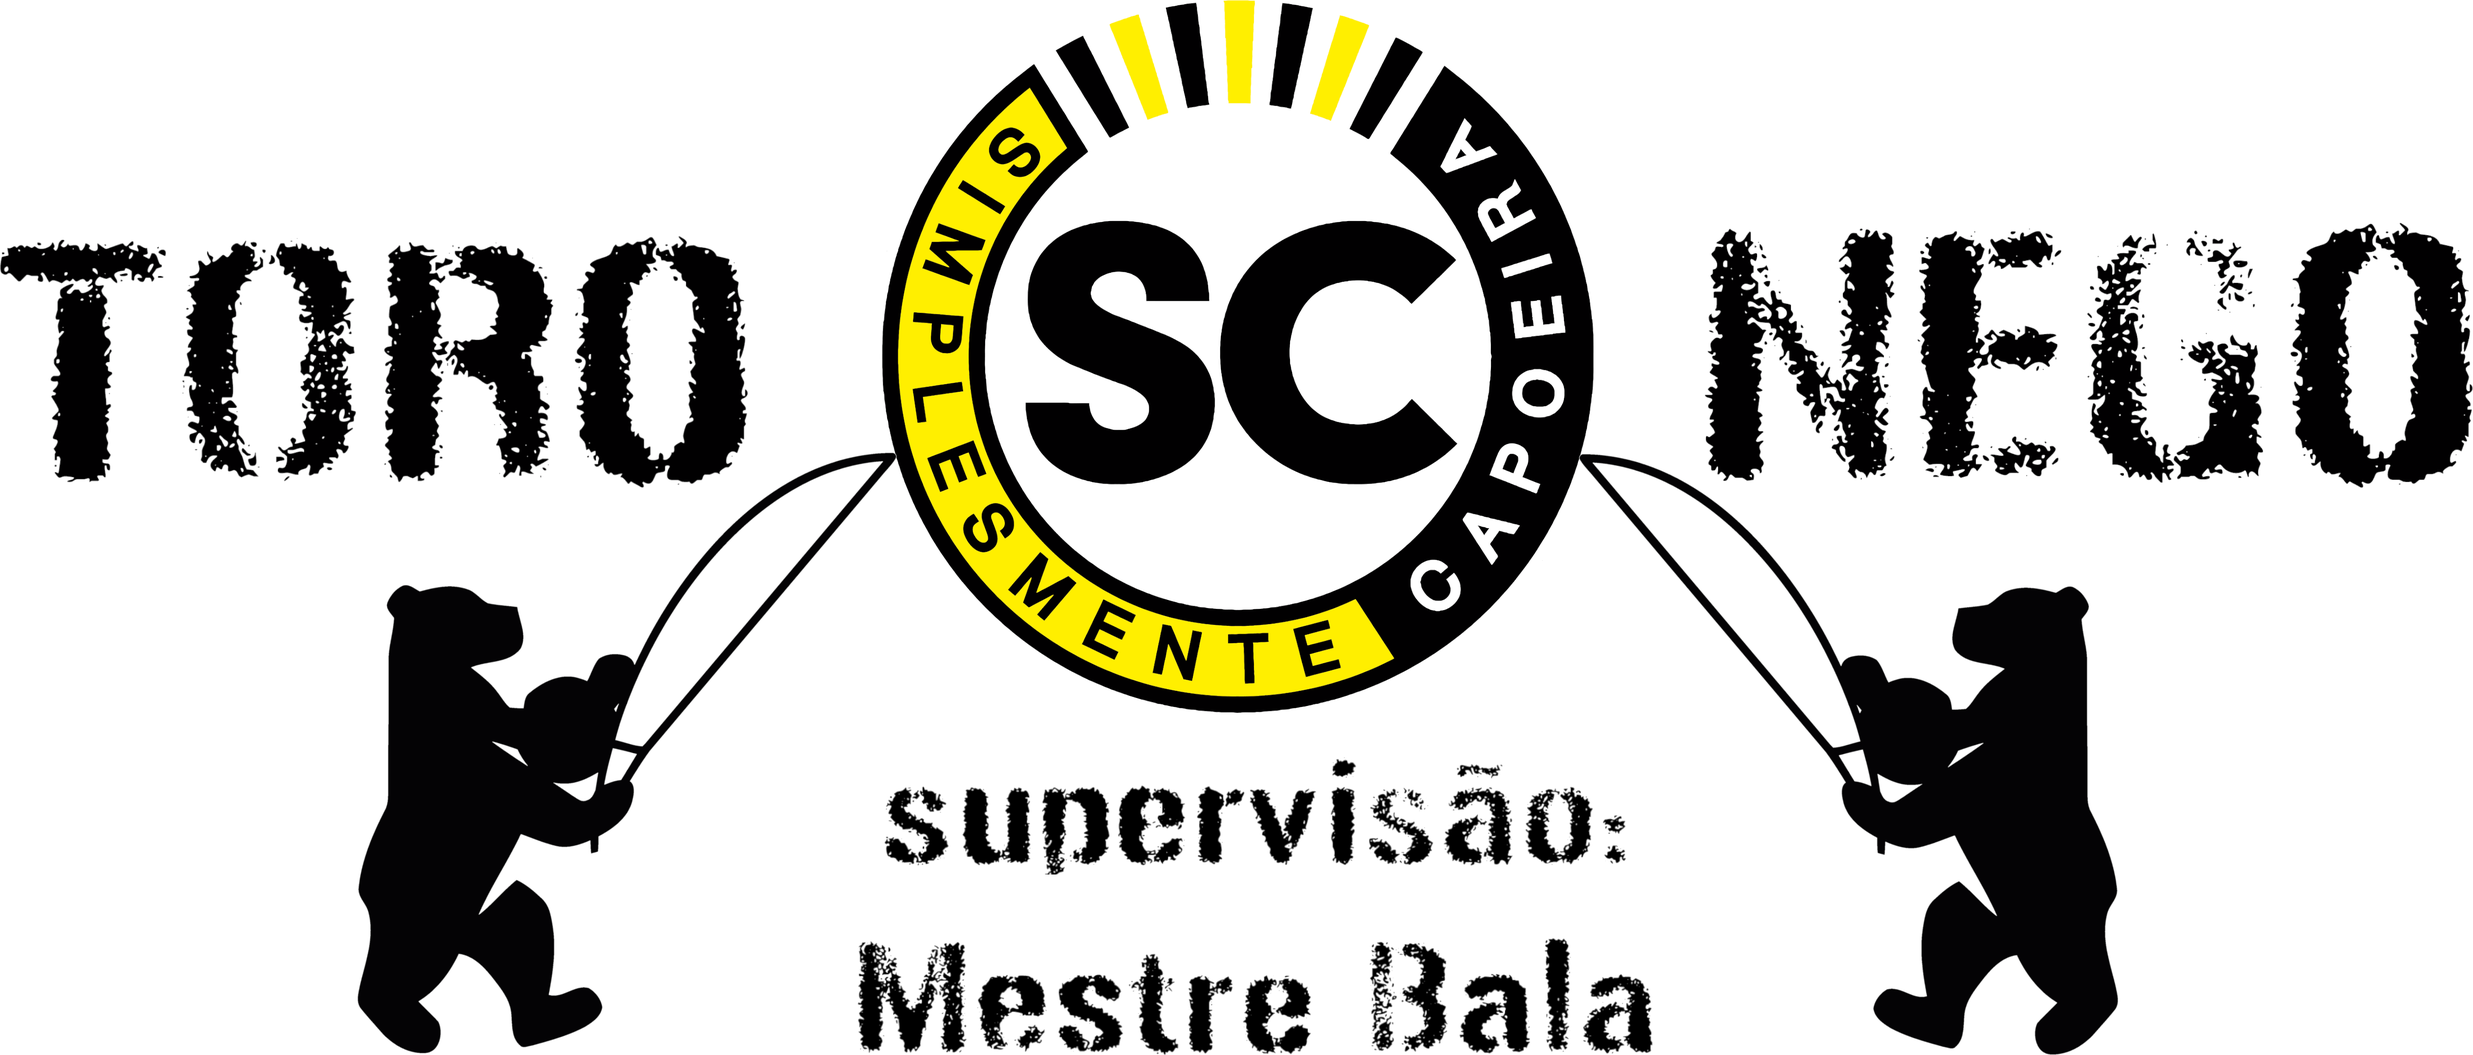
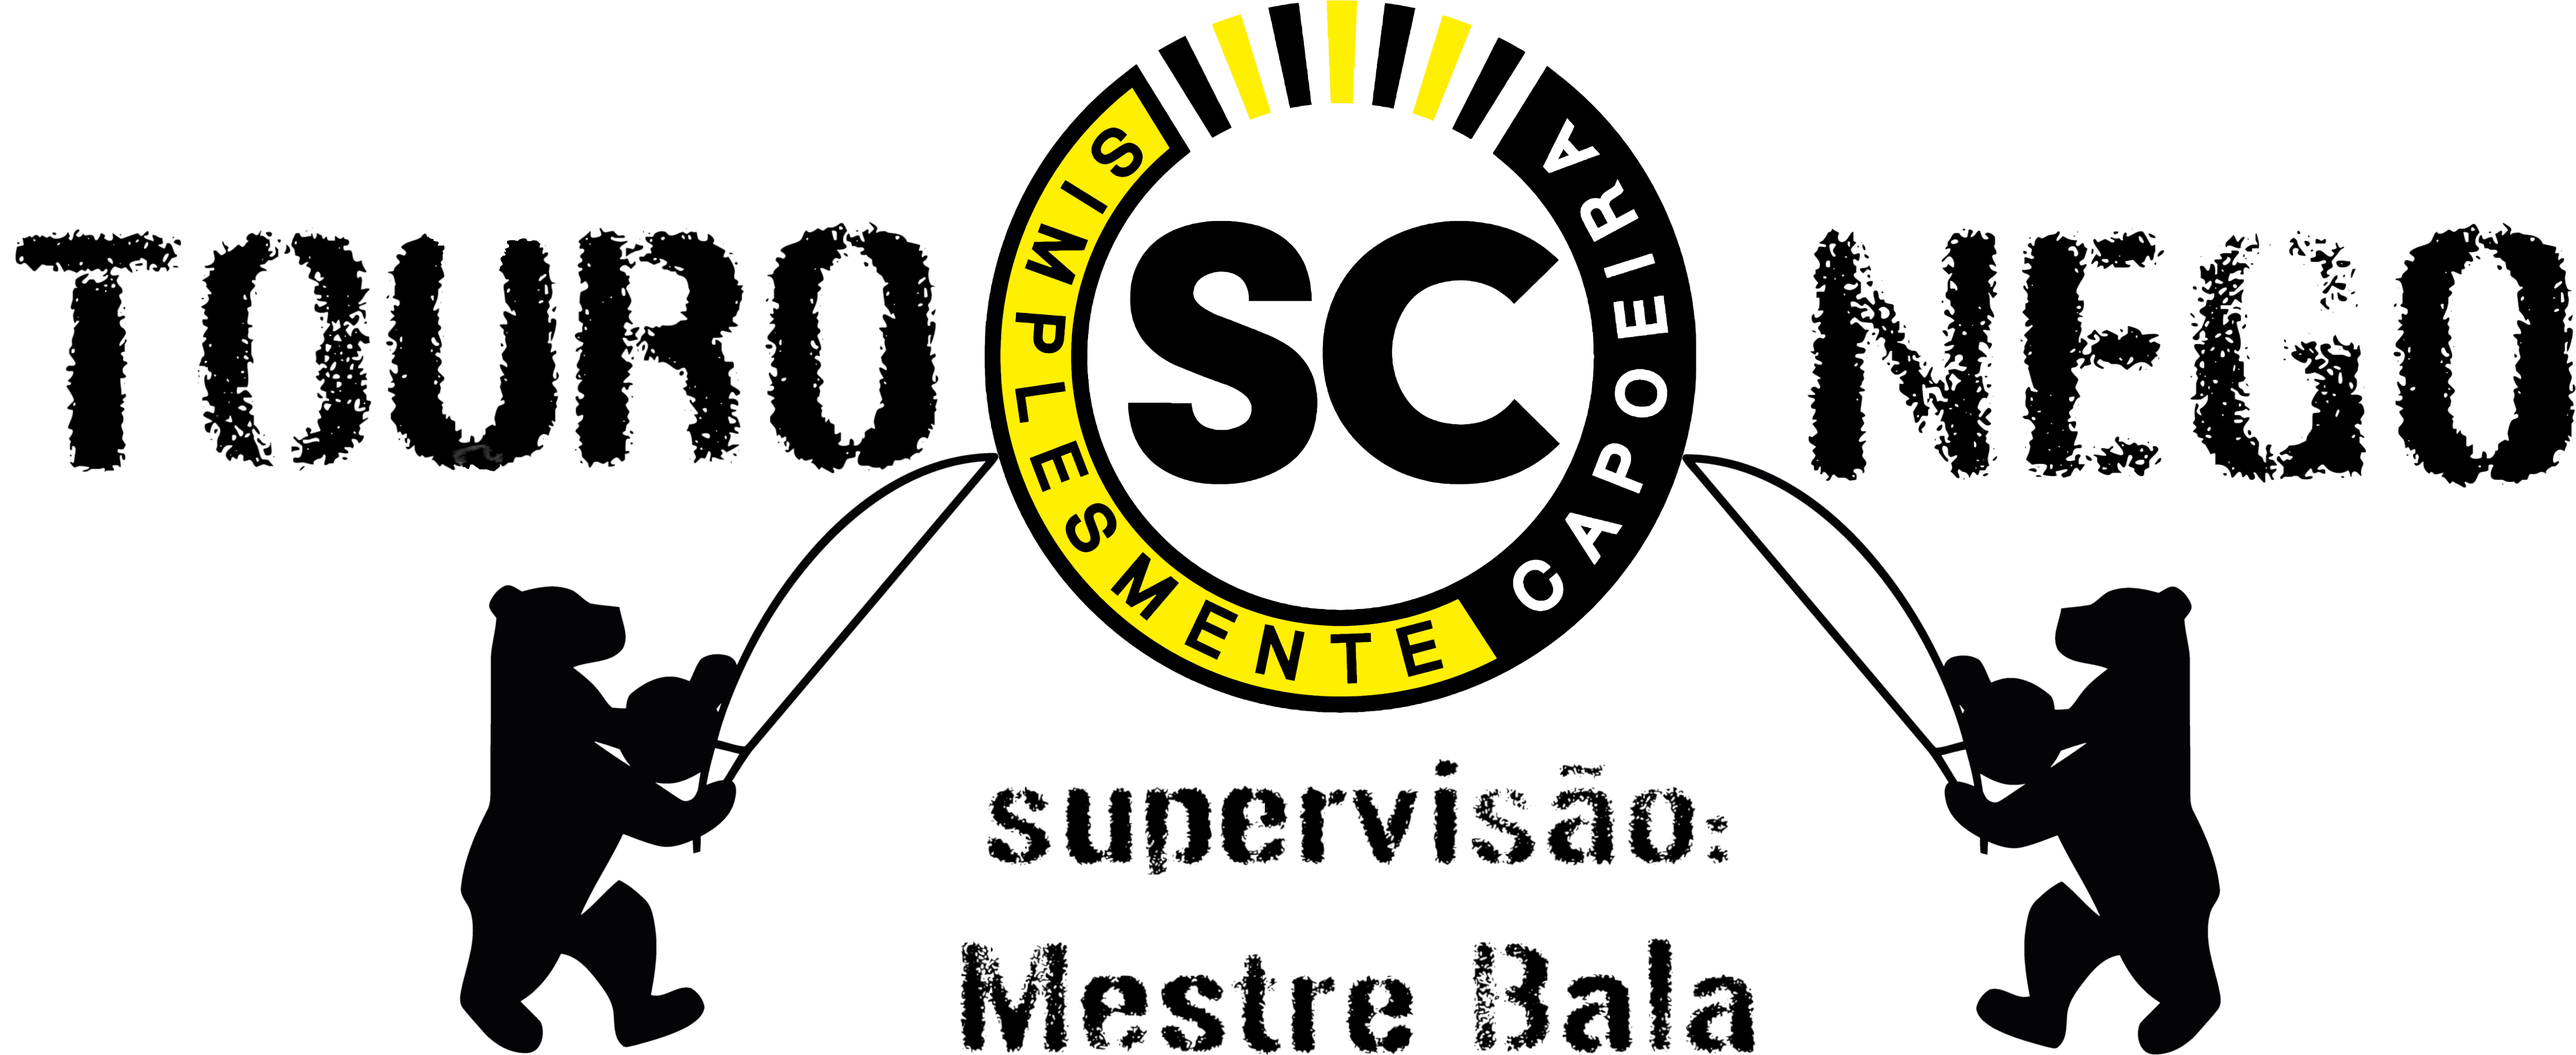
corrected name toro->touro 	modified:   assets/media/Website_SC_row.png 	modified:   assets/media/Website_SC_smaller.png added latest events section 	modified:   content/en/_index.md

diff --git a/content/en/_index.md b/content/en/_index.md
@@ -62,10 +62,29 @@ sections:
 
   - block: collection
     content:
+      title: Latest Events 
+      subtitle:
+      text:
+      count: 2
+      filters:
+        author: ''
+        category: ''
+        exclude_featured: false
+        publication_type: ''
+        tag: ''
+      offset: 0
+      order: desc
+      page_type: event 
+    design:
+      view: card
+      columns: '1'
+
+  - block: collection
+    content:
       title: Latest News
       subtitle:
       text:
-      count: 5
+      count: 2
       filters:
         author: ''
         category: ''
@@ -77,20 +96,6 @@ sections:
       page_type: post
     design:
       view: card
-      columns: '1'
-  
-
-  - block: collection
-    content:
-      title: Latest Preprints
-      text: ""
-      count: 5
-      filters:
-        folders:
-          - publication
-        publication_type: 'article'
-    design:
-      view: citation
       columns: '1'
 
   - block: markdown
